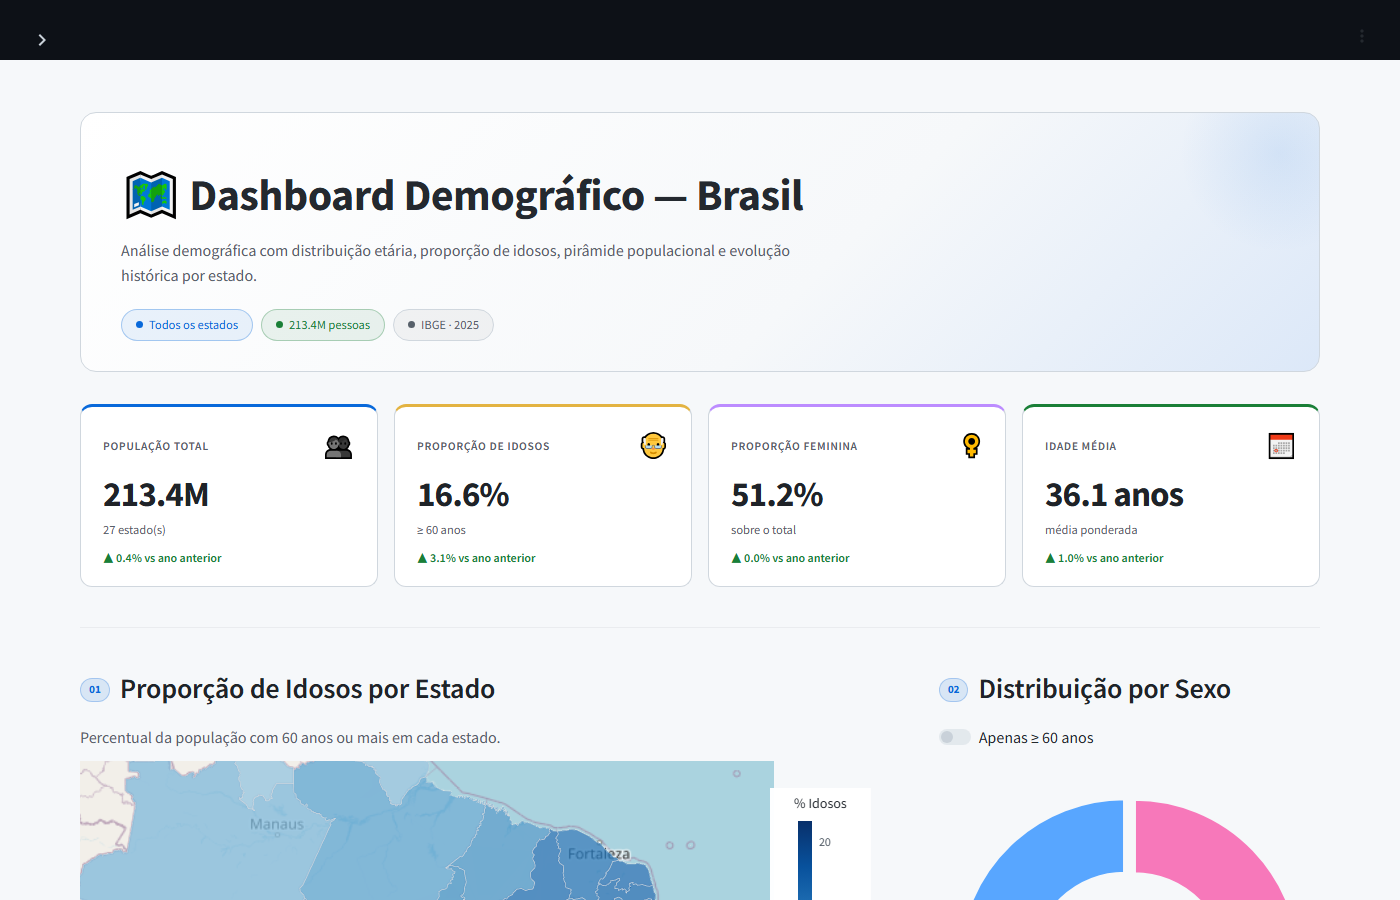
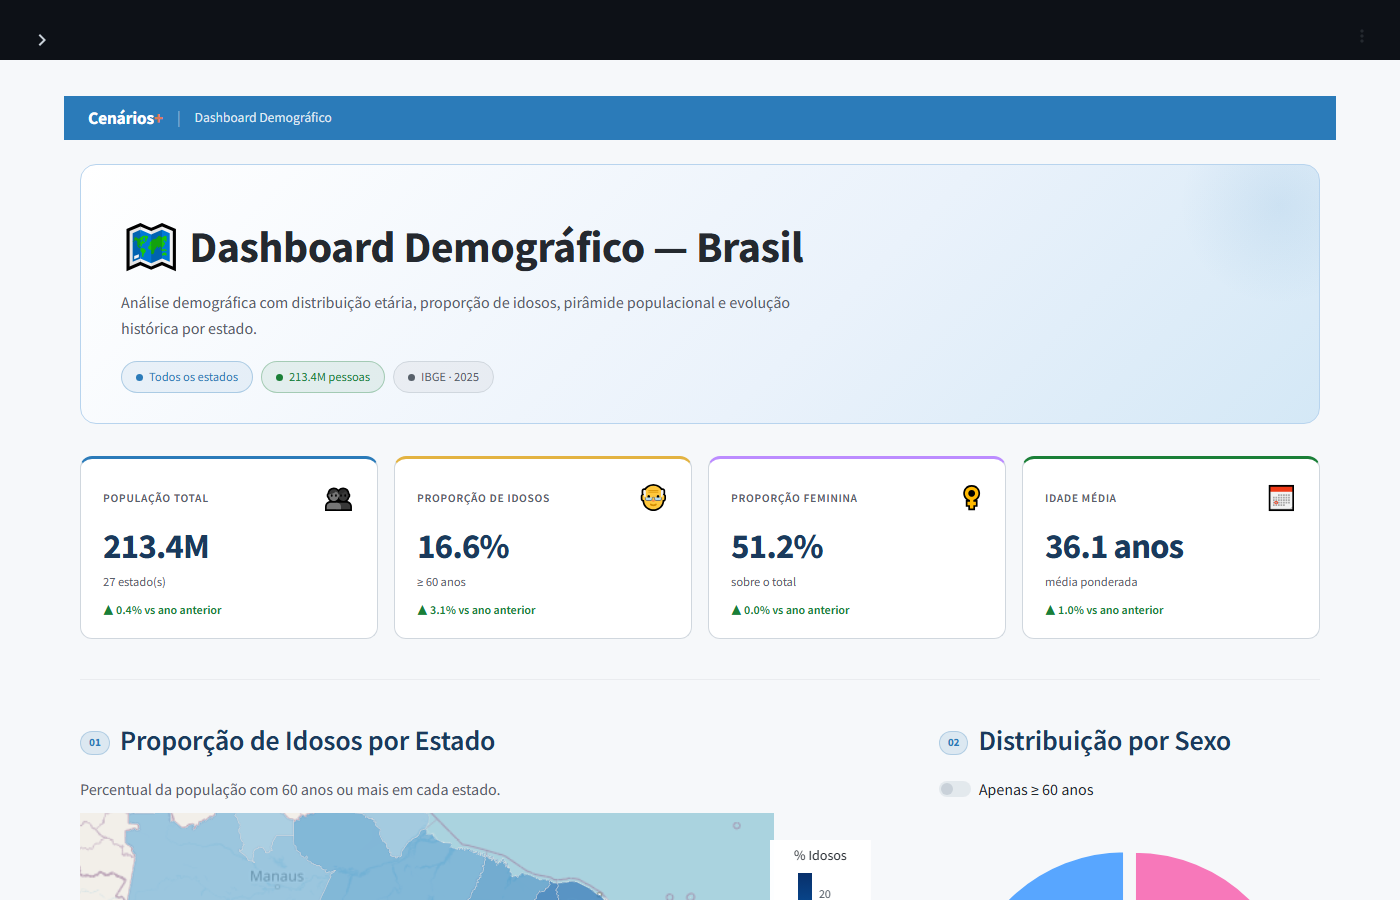
feat: identidade visual Cenários+ no tema claro

diff --git a/src/themes.py b/src/themes.py
@@ -25,15 +25,16 @@ THEMES = {
         "bg_card":     "rgba(255,255,255,.98)",
         "bg_plot":     "rgba(0,0,0,0)",
         "text":        "#24292f",
-        "text_title":  "#1f2328",
+        "text_title":  "#1a3a5c",
         "text_muted":  "#57606a",
         "border":      "#d0d7de",
-        "border_hero": "#d0d7de",
+        "border_hero": "#b8d4ee",
         "grid":        "#eaecef",
-        "accent":      "#0969da",
+        "accent":      "#2B7BB9",
+        "accent2":     "#E07B54",
         "success":     "#1a7f37",
         "danger":      "#cf222e",
-        "hero_bg":     "linear-gradient(135deg,#ffffff 0%,#f6f8fa 60%,#dce8f8 100%)",
+        "hero_bg":     "linear-gradient(135deg,#ffffff 0%,#eaf2fb 60%,#d4e8f6 100%)",
         "map_line":    "#d0d7de",
         "bar_line":    "#f6f8fa",
         "footer":      "#8c959f",
@@ -159,6 +160,34 @@ def _css(t: dict) -> str:
   .section-caption {{
     color: {t['text_muted']}; font-size: .82rem;
     margin: 0 0 12px; line-height: 1.5;
+  }}
+
+  /* ── Cenários+ header bar (tema claro apenas) ── */
+  .cenarios-bar {{
+    background: #2B7BB9;
+    padding: 8px 24px;
+    margin: -1rem -1rem 1.5rem -1rem;
+    display: flex;
+    align-items: center;
+    gap: 8px;
+  }}
+  .cenarios-bar-logo {{
+    font-size: 1.1rem;
+    font-weight: 800;
+    color: #ffffff;
+    letter-spacing: -0.3px;
+  }}
+  .cenarios-bar-logo span {{
+    color: #E07B54;
+  }}
+  .cenarios-bar-sep {{
+    color: rgba(255,255,255,.4);
+    margin: 0 6px;
+  }}
+  .cenarios-bar-title {{
+    font-size: .85rem;
+    font-weight: 500;
+    color: rgba(255,255,255,.85);
   }}
 
   /* ── Misc ── */

diff --git a/app.py b/app.py
@@ -96,6 +96,15 @@ with st.sidebar:
 t = THEMES[st.session_state.theme]
 st.markdown(_css(t), unsafe_allow_html=True)
 
+if st.session_state.theme == "light":
+    st.markdown("""
+    <div class="cenarios-bar">
+      <span class="cenarios-bar-logo">Cenários<span>+</span></span>
+      <span class="cenarios-bar-sep">|</span>
+      <span class="cenarios-bar-title">Dashboard Demográfico</span>
+    </div>
+    """, unsafe_allow_html=True)
+
 # ── Dados ─────────────────────────────────────────────────────────────────────
 df_raw             = carregar_dados(ano_sel)
 df_proc, df_idosos = processar_dados(df_raw)

diff --git a/src/charts.py b/src/charts.py
@@ -25,9 +25,9 @@ def processar_dados(df: pd.DataFrame):
 
 
 def fig_mapa(df_idosos: pd.DataFrame, t: dict, geojson: dict) -> go.Figure:
-    is_light    = t["bg"] == "#f6f8fa"
+    is_light    = t.get("toggle_icon") == "🌙"
     map_style   = "open-street-map" if is_light else "carto-darkmatter"
-    color_scale = "Blues"           if is_light else "YlOrRd"
+    color_scale = "Blues" if is_light else "YlOrRd"
 
     fig = px.choropleth_mapbox(
         df_idosos,
@@ -161,7 +161,7 @@ def fig_piramide(df: pd.DataFrame, t: dict) -> go.Figure:
 
 def fig_ranking(df_idosos: pd.DataFrame, t: dict) -> go.Figure:
     df_r = df_idosos.sort_values("pct_idosos", ascending=True)
-    color_scale = "Blues" if t["bg"] == "#f6f8fa" else "YlOrRd"
+    color_scale = "Blues" if t.get("toggle_icon") == "🌙" else "YlOrRd"
     fig = px.bar(
         df_r, x="pct_idosos", y="uf", orientation="h",
         color="pct_idosos", color_continuous_scale=color_scale,